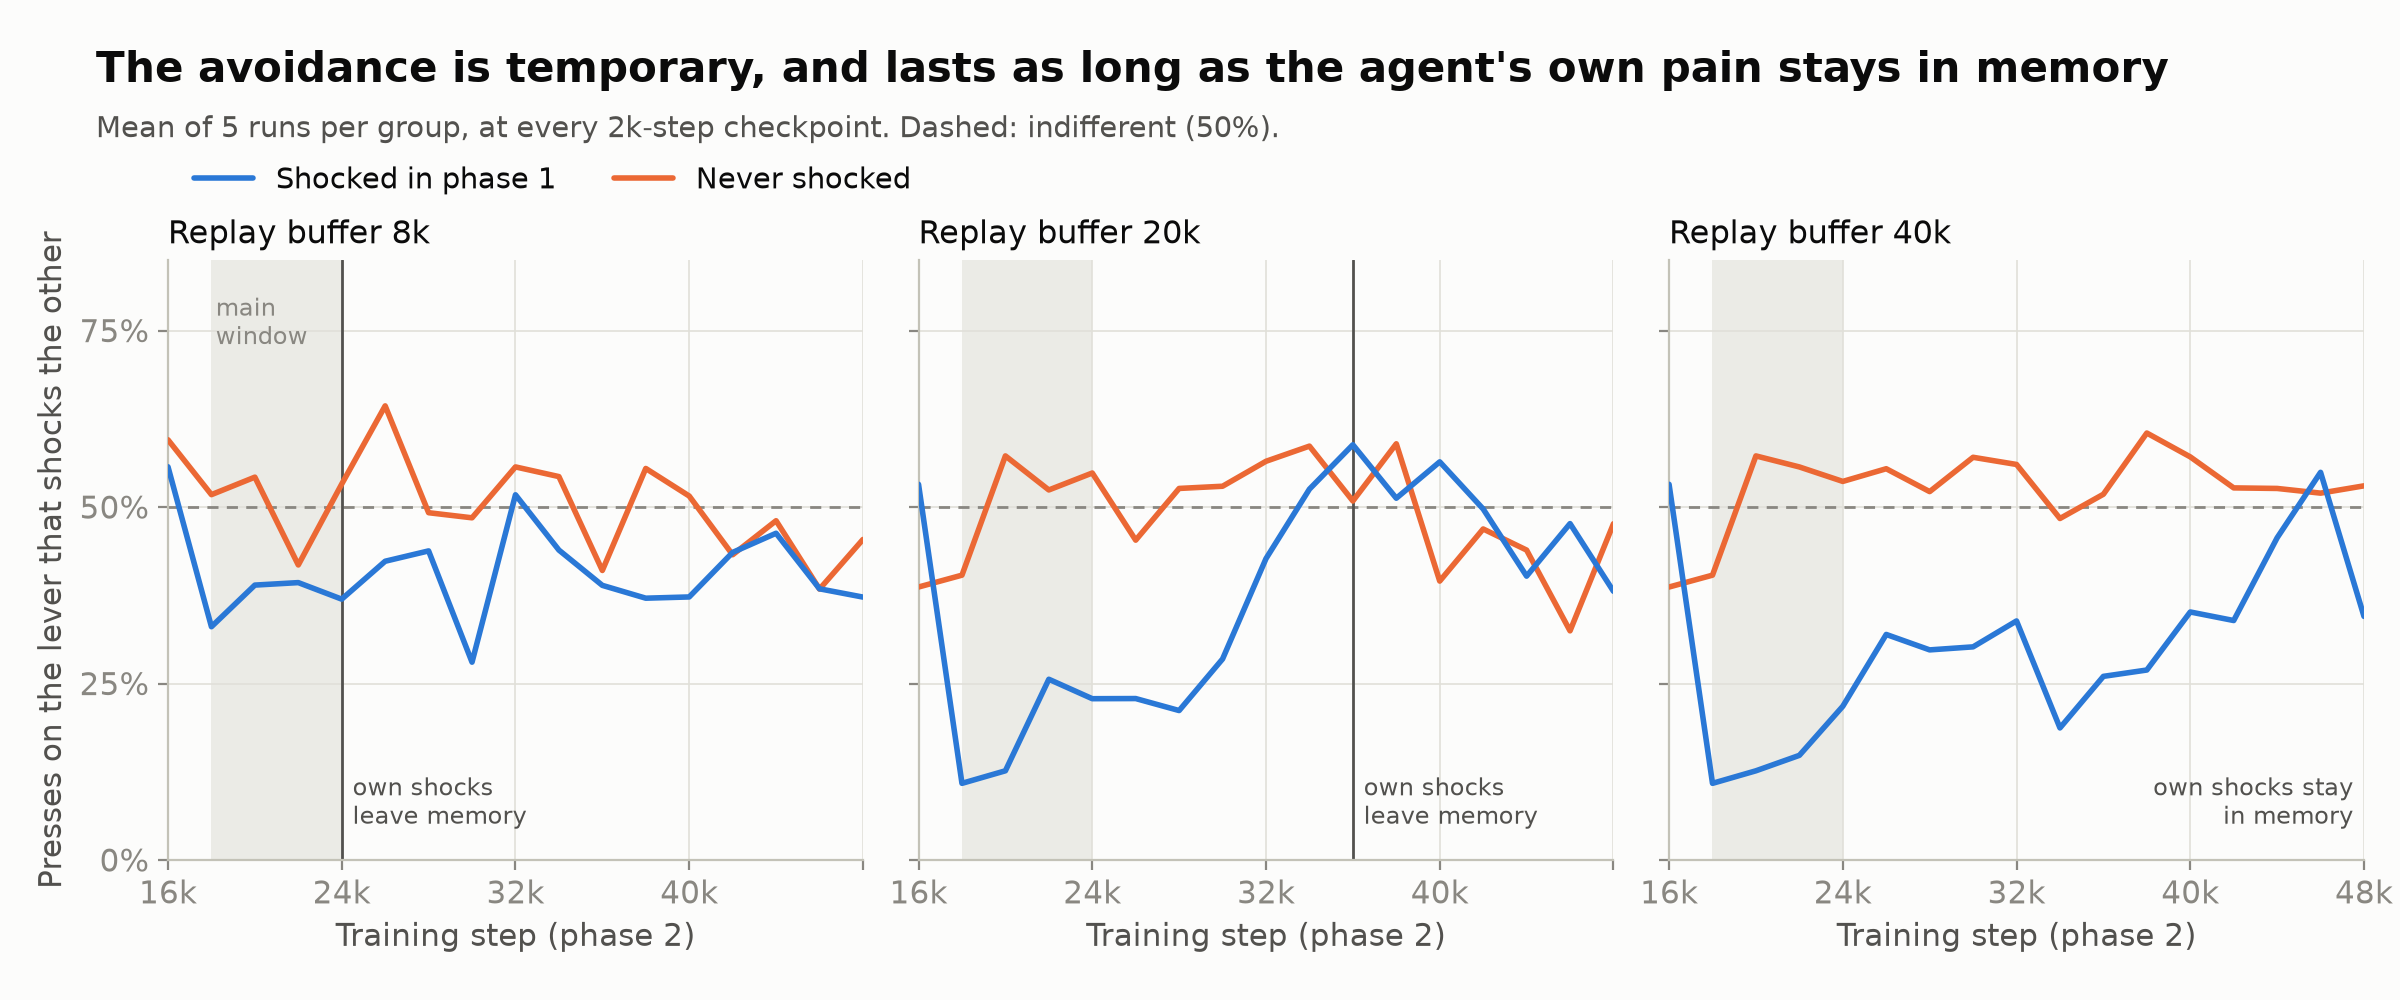
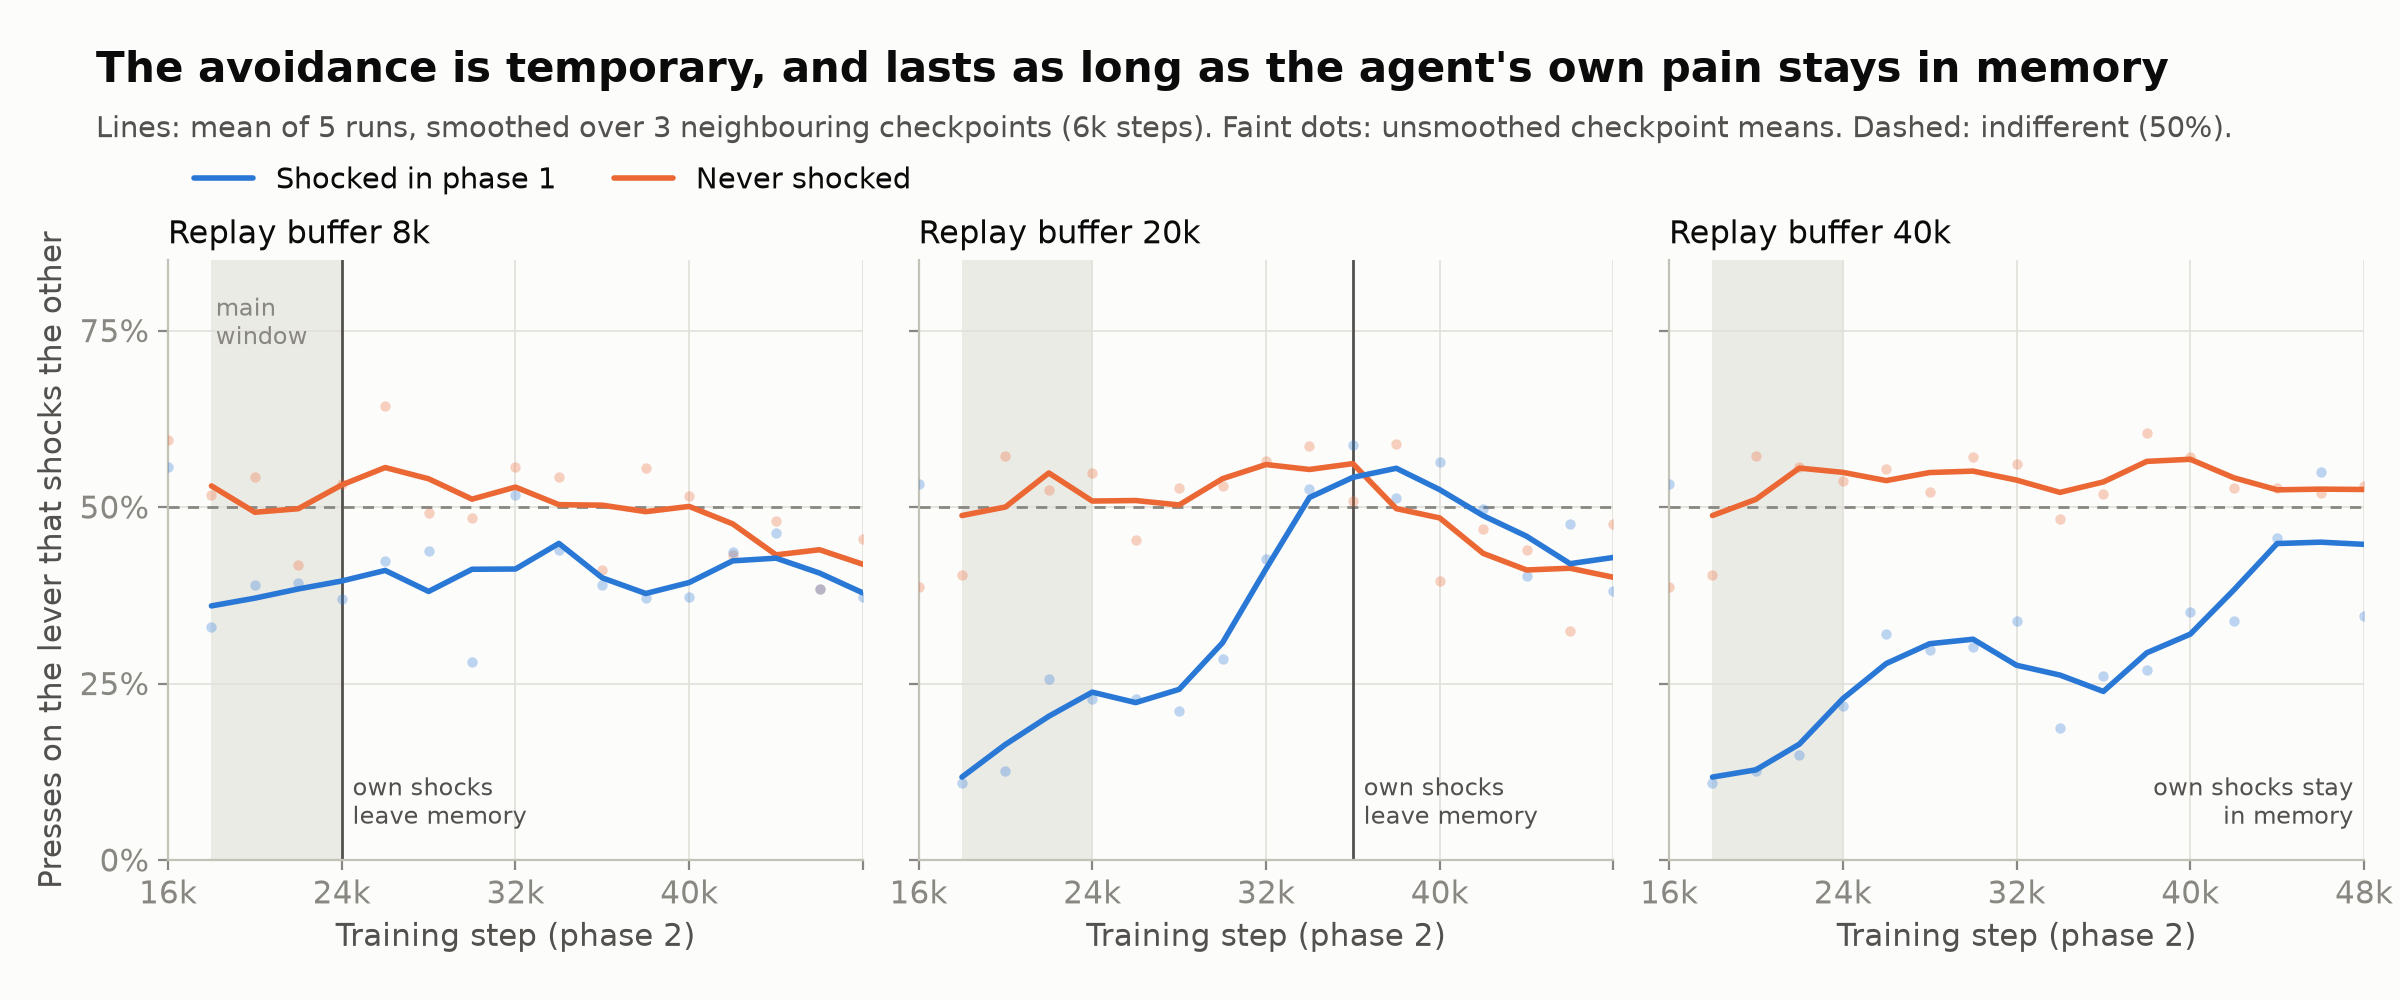
Figure 2: trend smoothed over 3 checkpoints within phase 2, raw checkpoint means as faint dots

diff --git a/presentation/make_figures.py b/presentation/make_figures.py
@@ -45,6 +45,12 @@ def series(runs: list[dict], key: str) -> tuple[np.ndarray, np.ndarray]:
     return steps, values
 
 
+def rolling_mean(values: np.ndarray, width: int) -> np.ndarray:
+    """Centred rolling mean; at the ends, the mean of the points available (no padding, no extrapolation)."""
+    half = width // 2
+    return np.array([np.nanmean(values[max(0, i - half): i + half + 1]) for i in range(len(values))])
+
+
 def main_window(run: dict) -> float:
     first, last = run["main_window"]
     return np.mean([c["lit_share"] for c in run["checkpoints"] if first <= c["step"] <= last])
@@ -112,8 +118,13 @@ def time_course() -> None:
         ax.axvspan(first / 1000, last / 1000, color=GRID, alpha=0.6, lw=0, zorder=1)
         for group in ("never_shocked", "shocked"):
             steps, v = series(load(RUNS / buffer / group), "lit_share")
+            mean = 100 * np.nanmean(v, axis=0)
             keep = steps >= 16
-            ax.plot(steps[keep], 100 * np.nanmean(v, axis=0)[keep], color=COLORS[group], zorder=3)
+            # Raw checkpoint means as faint dots (including the end of phase 1, 16k) ...
+            ax.scatter(steps[keep], mean[keep], s=14, color=COLORS[group], alpha=0.3, linewidths=0, zorder=3)
+            # ... and the trend: a centred rolling mean over 3 checkpoints (6k steps), within phase 2 only
+            phase2 = steps > 16
+            ax.plot(steps[phase2], rolling_mean(mean[phase2], 3), color=COLORS[group], zorder=4)
         ax.axhline(50, color=MUTED, lw=1, ls=(0, (4, 3)), zorder=2)
         if forget[buffer]:
             ax.axvline(forget[buffer], color=INK2, lw=1, zorder=2)
@@ -132,7 +143,8 @@ def time_course() -> None:
     handles = [plt.Line2D([], [], color=COLORS[g], lw=2, label=LABELS[g]) for g in COLORS]
     axes[0].legend(handles=handles, loc="upper left", bbox_to_anchor=(0, 1.2), ncol=2, fontsize=10.5)
     title(fig, "The avoidance is temporary, and lasts as long as the agent's own pain stays in memory",
-          "Mean of 5 runs per group, at every 2k-step checkpoint. Dashed: indifferent (50%).")
+          "Lines: mean of 5 runs, smoothed over 3 neighbouring checkpoints (6k steps). Faint dots: unsmoothed "
+          "checkpoint means. Dashed: indifferent (50%).")
     save(fig, "2_time_course.png")
 
 
